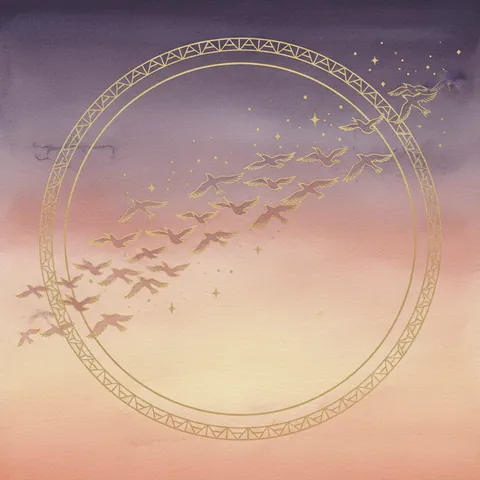
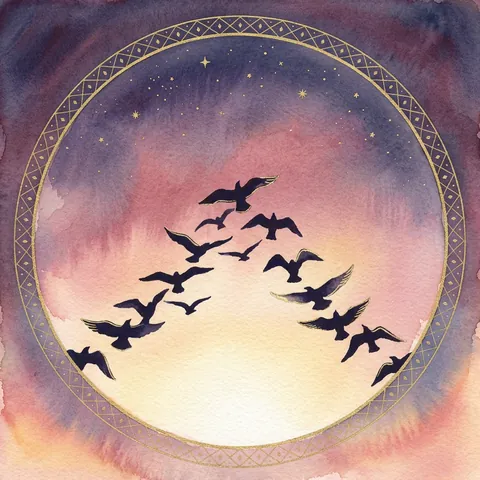
Sakina 1.4: tutte le 114 copertine
Aggiunte le ultime 26 (17, 19, 28, 36, 37, 40, 46, 54, 64, 68, 74, 75, 78, 79, 86, 94, 96, 99, 100, 101, 104, 105, 106, 108, 109, 113); rifatte 37, 54, 74 e 78 con soggetti più chiari.

Claude-Session: https://claude.ai/code/session_01RGhQ7Jda4jpW1d2aLAytar

diff --git a/sw.js b/sw.js
@@ -1,6 +1,6 @@
 /* Sakina – service worker: tiene l’app e i suoni di sottofondo in memoria per usarla senza rete.
    Sullo stesso indirizzo (github.io) vivono anche altre app (Bonaccia): qui si toccano solo le memorie che iniziano per «sakina-». */
-var CACHE = 'sakina-v5';
+var CACHE = 'sakina-v6';
 var QURAN_CACHE = 'sakina-recitazioni-v1';
 var FILES = [
   './', 'index.html', 'manifest.webmanifest',

diff --git a/js/version.js b/js/version.js
@@ -1,3 +1,3 @@
 /* Sakina – versione del sito. Questo file lo riscrive tools/aggiorna.py: non modificarlo a mano. */
 window.Sakina = window.Sakina || {};
-window.Sakina.Version = { v: '1.3', date: '2026-11-08 23:35' };
+window.Sakina.Version = { v: '1.4', date: '2026-11-08 23:48' };

diff --git a/STATO.md b/STATO.md
@@ -6,7 +6,7 @@
 - **Saluto per nome**: finestra alla prima apertura (si può saltare), nome in `localStorage` (`sakina.nome`), modificabile da «Su Sakina»; saluto in quattro fasce orarie; il nome è sempre testo (mai HTML).
 - **Migrazione da Bonaccia** (stesso indirizzo): riprende `bonaccia.quran_settings` e sposta le Sure da `bonaccia-recitazioni-v1`.
 - **Mini descrizioni** delle 114 Sure + luogo (dove condiviso) in `js/sure_info.js`, generato da `tools/immagini/genera_dati.py`. Revisione Opus fatta e applicata (errori di fatto, citazioni tolte, soggetti senza strumenti musicali né scritte; luogo vuoto anche per 1, 97, 112, 113, 114).
-- **Immagini**: 64 su 114 pronte e riviste (tavola), `img/sure/` con ritaglio automatico del bordo di carta; le altre in generazione.
+- **Immagini**: tutte le 114 copertine pronte, riviste a occhio (tavole) e pubblicate in `img/sure/` (4,6 MB con le miniature; ritaglio automatico del bordo di carta). Rifatte con soggetto nuovo la 37, 54, 74 e 78.
 - **Consigli per momento della giornata** (`Sakina.Momenti`: mattino, pomeriggio, sera, notte) in cima all'elenco, nel rispetto delle Sure ammesse con la voce scelta; prova `momenti_del_giorno.mjs`.
 - **Prove**: dati_corrotti, saluto_e_immagini, migrazione, lettore_*, voci_e_protezione, schermi, offline 1 e 2: tutte ok (`tools/prove/LEGGIMI.md`; una alla volta).
 
@@ -17,11 +17,11 @@
 - Bonaccia: dilettafalcone ha solo lettura su `ginkgo321/bonaccia`, quindi la ripulitura di Bonaccia è solo locale (nessun push possibile finché non ha scrittura).
 
 ## Da fare
-- Finire le copertine mancanti: `python tools/immagini/genera_gcloud.py 1-114` (salta quelle presenti), poi `python tools/immagini/prepara.py`, tavola con `lotti.py tavola`, controllo a occhio, commit e push ogni ~10 Sure.
 - `python tools/aggiorna.py` prima di ogni push; prove una alla volta.
 - Ritarare `BG_REF.ruscello` (senza campanelli): vedi `docs/livelli_audio.md`.
-- Su iPhone vero: recitazione a schermo bloccato, timer di notte, comandi dalla schermata di blocco, aspetto di saluto e copertine.
-- Bonaccia: serve il permesso di scrittura su `ginkgo321/bonaccia` per pubblicare la ripulitura.
+- Su iPhone vero: recitazione a schermo bloccato, timer di notte, comandi dalla schermata di blocco, aspetto di saluto e copertine; peso delle immagini su rete mobile (si scaricano solo quelle viste: le miniature dell'elenco sono 1-3 KB, la copertina grande 30-70 KB).
+- Bonaccia: serve il permesso di scrittura su `ginkgo321/bonaccia` per pubblicare la ripulitura (i collegamenti a Sakina sono già pronti).
+- Se si vuole, togliere `docs/analisi_suoni.md` dalla cronologia pubblica (push forzato): chiedere all'utente.
 
 ## File toccati
 Tutta la cartella `sakina` (nuova) e, in `bonaccia`: `index.html`, `css/style.css`, `js/app.js`, `js/audio.js`, `js/content.js`, `sw.js`, `js/version.js`, docs, prove, `AGENTS.md`, `README.md`, `STATO.md`; cancellati `js/recitazioni*.js`, `tools/misura_recitazioni.py` e le prove del lettore.
